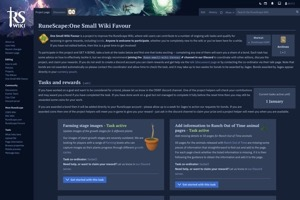
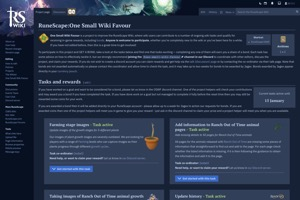
add full size images for milestones

diff --git a/styles/stylesheet.min.css b/styles/stylesheet.min.css
@@ -1,1 +1,1 @@
-:root{--heading-color:#444e5a;--text-color:#5d6773;--text-color-alt:#949eaa;--link-color:#327ba7;--code-color:#edf1f1;--section-color:#f2f4f4;--section-color-alt:#f9fafa;--accent-color:#dae0e4;--accent-color-alt:#a2abb7;--box-shadow-light:0 .7em .7em -.5em rgba(115,116,140,.15);--box-shadow-dark:0 .7em .7em -.5em rgba(115,116,140,.65);--ease-out-quad:cubic-bezier(.25,.46,.45,.94);--ease-in-cubic:cubic-bezier(.77,0,.175,1);--grid-gap:.9em;--border-radius:.35em}:root.is-dark-mode{--heading-color:#e7ebf4;--text-color:#d9e2f4;--text-color-alt:#98a3b8;--link-color:#8cabe6;--code-color:#242f45;--section-color:#071022;--section-color-alt:#121b2e;--accent-color:#313e59;--accent-color-alt:#596e96;--box-shadow-light:0 .7em .8em -.6em rgba(0,0,0,.25);--box-shadow-dark:0 .7em .8em -.6em rgba(0,0,0,.65)}html{-webkit-text-size-adjust:100%}body{font-size:1.3rem;font-family:'IBM Plex Sans','Helvetica Neue','Arial',sans-serif;color:var(--text-color);background-color:var(--section-color-alt);margin:0}@media screen and (max-width:800px){body{font-size:1rem}}h1,h2,h3,h4{font-family:'PT Serif','Palatino','Georgia',serif;font-weight:700;color:var(--heading-color);margin:0}h2{font-size:2em}h3{font-size:1.3em}h2:target::before{content:'';display:block;height:5rem;margin-top:-5rem;visibility:hidden;pointer-events:none}.byline,li,p{line-height:1.6}a{color:var(--link-color);text-decoration:none}a:focus,a:hover{text-decoration:underline}.yir-section{background-color:var(--section-color)}.yir-section:nth-child(even){background-color:var(--section-color-alt)}.yir-container{max-width:52rem;margin:0 auto;padding:8em 7vw}@supports (padding:max(0px)){.yir-container{padding-left:max(7vw,env(safe-area-inset-left));padding-right:max(7vw,env(safe-area-inset-right))}}.yir-container>h3{margin-top:2.5em}.byline{color:var(--text-color-alt);font-size:.85em;margin:0}@media screen and (max-width:800px){.yir-container{padding:6em 5vw}}header.yir-section{background-color:var(--section-color-alt);position:relative;z-index:12}.title{height:100vh;display:flex}.title h1{text-align:center;font-size:initial;margin:auto}@keyframes gamers-rise-up{0%{opacity:0;transform:translateY(20px)}to{opacity:1;transform:translateY(0)}}.title-big{font-size:35vmin;line-height:.75;animation:1s .5s var(--ease-out-quad) both gamers-rise-up}.title-small{color:var(--text-color)}.title-small:first-of-type{font-size:7.25vmin;animation:1s var(--ease-out-quad) both gamers-rise-up}.title-small:last-of-type{font-size:11vmin;animation:1s 1s var(--ease-out-quad) both gamers-rise-up}@media screen and (max-width:800px){.title{max-height:70vmax}}@media screen and (prefers-reduced-motion:reduce){.title-big,.title-small:first-of-type,.title-small:last-of-type{animation:none}}nav{font-size:.7em;position:-webkit-sticky;position:sticky;top:0;z-index:10;box-shadow:0 3px 10px rgba(0,0,0,.03),0 10px 20px rgba(0,0,0,.05),0 30px 60px rgba(0,0,0,.08)}.is-dark-mode nav{box-shadow:0 3px 10px rgba(0,0,0,.06),0 10px 20px rgba(0,0,0,.1),0 30px 60px rgba(0,0,0,.16)}nav ul.yir-container{display:flex;justify-content:space-between;list-style:none;padding-top:.75em;padding-bottom:.75em}nav li a{color:var(--text-color-alt);padding:.4em .75em .5em;transition:.2s ease}nav li:first-of-type a{margin-left:-.75em}nav li a:focus,nav li a:hover{color:var(--text-color);background-color:var(--accent-color);border-radius:var(--border-radius);text-decoration:none}nav li:last-of-type{display:flex}#dark-mode-toggle{background:0 0;margin:auto -.75em auto auto;padding:0 .75em;border:none;cursor:pointer}#dark-mode-toggle .svg-moon{--button-size:1.75em;fill:var(--text-color-alt);width:var(--button-size);height:var(--button-size);transition:fill .3s ease}#dark-mode-toggle:focus .svg-moon,#dark-mode-toggle:hover .svg-moon{fill:var(--text-color)}@media screen and (max-width:550px){nav{position:fixed;top:0;right:0;background:0 0!important}.is-dark-mode nav,nav{box-shadow:none}nav ul.yir-container{padding:.75em}nav li:not(:last-of-type){display:none}#dark-mode-toggle .svg-moon{--button-size:2em}}@media screen and (min-width:551px) and (max-width:800px){nav{font-size:.75em}#dark-mode-toggle .svg-moon{--button-size:1.5em}}.wg-logo{display:flex;margin-bottom:1.5em}.wg-logo a{margin:auto}.wiki-group{display:flex;flex-flow:row wrap;justify-content:space-between;width:90%;margin:2em auto 0}.wiki{background-color:var(--accent-color);width:calc((100% - var(--grid-gap))/2);padding:1.5em 2em;border-radius:var(--border-radius);box-sizing:border-box;box-shadow:var(--box-shadow-dark);transition:transform .2s ease-in-out}html:not(.is-dark-mode) .wiki{filter:brightness(1.4)}.wiki .byline,.wiki h3{color:#fff}.wiki h3{line-height:1.25}.wiki:focus,.wiki:hover{text-decoration:none;transform:translateY(-.15em)}.wiki::after{display:none}.wiki.classic,.wiki.ptbr{background-image:linear-gradient(rgba(0,0,0,.4),rgba(0,0,0,.65)),url(../images/Wiki-PTBR.jpg);background-size:cover}.wiki.classic{background-image:linear-gradient(rgba(0,0,0,.25),rgba(0,0,0,.5)),url(../images/Wiki-Classic.png)}@media screen and (max-width:650px){.wiki{width:100%}.wiki+.wiki{margin-top:var(--grid-gap)}}@media screen and (max-width:calc(52rem + 12vw)){.wiki-group{width:100%}}@media screen and (min-width:650px) and (max-width:calc(52rem + 12vw)){.wiki{padding:1.25em 1.4em}}@media (-webkit-min-device-pixel-ratio:2),(min-resolution:192dpi){.wiki.ptbr{background-image:linear-gradient(rgba(0,0,0,.4),rgba(0,0,0,.65)),url(../images/Wiki-PTBR@2x.jpg)}.wiki.classic{background-image:linear-gradient(rgba(0,0,0,.3),rgba(0,0,0,.55)),url(../images/Wiki-Classic@2x.png)}}.popular-group{display:flex;flex-flow:row wrap;justify-content:space-between;margin-top:2.5em}.popular-title{flex:1 100%;margin-bottom:.75em}.popular-group .tile+.tile{margin-left:var(--grid-gap)}.popular-group .tile ol,.traffic .tile h4{font-size:.9em}.tile{flex:1;background:var(--section-color-alt);box-shadow:var(--box-shadow-light);padding:1.2em 1.5em;border-radius:var(--border-radius)}.tile h4{font-family:'IBM Plex Sans','Helvetica Neue','Arial',sans-serif;font-weight:400;padding-bottom:.35em;border-bottom:1px solid var(--accent-color)}.tile ol{font-size:.8em;margin:.75em 0 0;padding-left:0;counter-reset:item}.tile li{display:flex;counter-increment:item;list-style:none;margin-top:.4em}.tile li::before{content:counter(item);margin-top:.1em;margin-right:.75em;padding:.45em;color:#fff;border-radius:50%;font-size:.75em;font-weight:700;width:1em;height:1em;line-height:1em;text-align:center;-moz-user-select:none;-webkit-user-select:none;-ms-user-select:none;user-select:none}.is-dark-mode .tile li::before,.is-dark-mode .yir-section.technical .thumb{filter:brightness(.8) contrast(1.5) saturate(.8)}.tile.rsw li:nth-of-type(1)::before{background:#266087}.tile.rsw li:nth-of-type(2)::before{background:#327097}.tile.rsw li:nth-of-type(3)::before{background:#4081a7}.tile.rsw li:nth-of-type(4)::before{background:#4f91b6}.is-dark-mode .tile.rsw li:nth-of-type(1)::before,.tile.rsw li:nth-of-type(5)::before{background:#5fa1c4}.is-dark-mode .tile.rsw li:nth-of-type(2)::before{background:#4f91b6}.is-dark-mode .tile.rsw li:nth-of-type(4)::before{background:#327097}.is-dark-mode .tile.rsw li:nth-of-type(5)::before{background:#266087}.tile.osw li:nth-of-type(1)::before{background:#875a26}.tile.osw li:nth-of-type(2)::before{background:#976832}.tile.osw li:nth-of-type(3)::before{background:#a77740}.tile.osw li:nth-of-type(4)::before{background:#b6864f}.is-dark-mode .tile.osw li:nth-of-type(1)::before,.tile.osw li:nth-of-type(5)::before{background:#c4955f}.is-dark-mode .tile.osw li:nth-of-type(2)::before{background:#b6864f}.is-dark-mode .tile.osw li:nth-of-type(4)::before{background:#976832}.is-dark-mode .tile.osw li:nth-of-type(5)::before{background:#875a26}@media screen and (max-width:550px){.popular-group{display:block}.popular-group .tile+.tile{margin-left:0;margin-top:var(--grid-gap)}}.milestone-list{list-style:none;padding:30px 30px 10px 67px;margin-top:1.5em}.milestone-list .thumb{float:right;margin:1.25em 0 0 1em;border-radius:var(--border-radius);box-shadow:var(--box-shadow-dark)}.milestone-list::before{content:"";position:absolute;top:5px;left:36px;width:2px;height:calc(100% - 5px);background:linear-gradient(to bottom,var(--section-color-alt),var(--accent-color) 40px) top no-repeat,linear-gradient(to top,var(--section-color-alt),var(--accent-color) 40px) bottom no-repeat;background-size:100% 50%}.milestone-list h3{line-height:1.2}.milestone-list h3+p{margin-top:.5em}.milestone-list,.milestone-list li{position:relative}.milestone-list li+li{margin-top:2.5em}.milestone-list li::before{position:absolute;top:36px;left:-40px;content:"";width:15px;height:15px;background-color:var(--accent-color-alt);border:2px solid var(--section-color-alt);border-radius:50%}code{font-size:.9em;background:var(--code-color);border:1px solid var(--accent-color);border-radius:.25em;padding:.05em .2em;margin:0 .1em;font-family:'IBM Plex Mono','Menlo','Inconsolata',monospace}@media screen and (max-width:700px){.milestone-list .thumb{float:none;margin-left:0;max-width:70vw}}@media screen and (max-width:800px){.milestone-list{margin-left:-1.25em;padding-right:0}.milestone-list li::before{top:26px}}.stats{display:grid;grid-gap:var(--grid-gap);margin-top:1.25em}.tile dt{color:#6bc71f;font-size:3em;font-weight:700}.tile dd{color:var(--text-color-alt);font-size:.75em;margin-left:0;line-height:1.45}.traffic .tile li:nth-of-type(1)::before{background:#569d18}.traffic .tile li:nth-of-type(2)::before{background:#62b41c}.traffic .tile li:nth-of-type(3)::before{background:#75c72d}.is-dark-mode .traffic .tile li:nth-of-type(1)::before,.traffic .tile li:nth-of-type(4)::before{background:#8ed352}.is-dark-mode .traffic .tile li:nth-of-type(2)::before{background:#75c72d}.is-dark-mode .traffic .tile li:nth-of-type(3)::before{background:#62b41c}.is-dark-mode .traffic .tile li:nth-of-type(4)::before{background:#569d18}.community dt{color:#3ea6e6}@media screen and (max-width:399px){.stats .tile dt{float:left;margin-right:.7rem}.stats .tile dd{margin-top:.8rem}}@media screen and (min-width:400px){.stats{grid-template-columns:repeat(2,1fr)}}@media screen and (min-width:650px){.stats{grid-template-columns:repeat(3,1fr)}}.yir-section.technical .thumb{float:right;margin:1.25em 0 0 1em}@media screen and (max-width:600px){.yir-section.technical .thumb{float:none;margin-left:0;max-width:70vw}}.irl-trip{margin:3.5em 0 0}.irl-gallery{margin-top:1.5em}.irl-gallery a{transition:.2s ease-in-out}.irl-gallery a:focus,.irl-gallery a:hover{transform:translateY(-.15em)}.irl-gallery img{display:block;border-radius:var(--border-radius);box-shadow:var(--box-shadow-dark)}@media screen and (max-width:499px){.irl-gallery{display:flex;flex-wrap:nowrap;overflow-x:scroll;scroll-snap-type:x mandatory;margin:1em -5vw 0;padding:.5em 5vw 1em}.irl-gallery .image-trigger+.image-trigger{margin-left:var(--grid-gap)}.irl-gallery .image-trigger:last-child img{margin-right:5vw}.irl-gallery img{width:80vw;scroll-snap-align:center}}@media screen and (min-width:500px){.irl-gallery{display:grid;grid-gap:var(--grid-gap);grid-template-columns:repeat(2,1fr)}.irl-gallery img{width:100%}}@media screen and (min-width:1024px){.irl-gallery{grid-template-columns:repeat(3,1fr);margin:1.5em -3em 0}}.views-loader{color:#fff;position:absolute;display:flex;justify-content:center;align-items:center;height:90vh;width:100vw}.views-image{padding:3vh 3vw}
+:root{--heading-color:#444e5a;--text-color:#5d6773;--text-color-alt:#949eaa;--link-color:#327ba7;--code-color:#edf1f1;--section-color:#f2f4f4;--section-color-alt:#f9fafa;--accent-color:#dae0e4;--accent-color-alt:#a2abb7;--box-shadow-light:0 .5em .7em -.6em rgba(115,116,140,.15);--box-shadow-dark:0 .5em .7em -.6em rgba(115,116,140,.65);--ease-out-quad:cubic-bezier(.25,.46,.45,.94);--ease-in-cubic:cubic-bezier(.77,0,.175,1);--grid-gap:.9em;--border-radius:.35em}:root.is-dark-mode{--heading-color:#e7ebf4;--text-color:#d9e2f4;--text-color-alt:#98a3b8;--link-color:#8cabe6;--code-color:#242f45;--section-color:#071022;--section-color-alt:#121b2e;--accent-color:#313e59;--accent-color-alt:#596e96;--box-shadow-light:0 .7em .8em -.6em rgba(0,0,0,.25);--box-shadow-dark:0 .7em .8em -.6em rgba(0,0,0,.65)}html{-webkit-text-size-adjust:100%}body{font-size:1.3rem;font-family:'IBM Plex Sans','Helvetica Neue','Arial',sans-serif;color:var(--text-color);background-color:var(--section-color-alt);margin:0}@media screen and (max-width:800px){body{font-size:1rem}}h1,h2,h3,h4{font-family:'PT Serif','Palatino','Georgia',serif;font-weight:700;color:var(--heading-color);margin:0}h2{font-size:2em}h3{font-size:1.3em}h2:target::before{content:'';display:block;height:5rem;margin-top:-5rem;visibility:hidden;pointer-events:none}.byline,li,p{line-height:1.6}a{color:var(--link-color);text-decoration:none}a:focus,a:hover{text-decoration:underline}.yir-section{background-color:var(--section-color)}.yir-section:nth-child(even){background-color:var(--section-color-alt)}.yir-container{max-width:52rem;margin:0 auto;padding:8em 7vw}@supports (padding:max(0px)){.yir-container{padding-left:max(7vw,env(safe-area-inset-left));padding-right:max(7vw,env(safe-area-inset-right))}}.yir-container>h3{margin-top:2.5em}.byline{color:var(--text-color-alt);font-size:.85em;margin:0}@media screen and (max-width:800px){.yir-container{padding:6em 5vw}}header.yir-section{background-color:var(--section-color-alt);position:relative;z-index:12}.title{height:100vh;display:flex}.title h1{text-align:center;font-size:initial;margin:auto}@keyframes gamers-rise-up{0%{opacity:0;transform:translateY(20px)}to{opacity:1;transform:translateY(0)}}.title-big{font-size:35vmin;line-height:.75;animation:1s .5s var(--ease-out-quad) both gamers-rise-up}.title-small{color:var(--text-color)}.title-small:first-of-type{font-size:7.25vmin;animation:1s var(--ease-out-quad) both gamers-rise-up}.title-small:last-of-type{font-size:11vmin;animation:1s 1s var(--ease-out-quad) both gamers-rise-up}@media screen and (max-width:800px){.title{max-height:70vmax}}@media screen and (prefers-reduced-motion:reduce){.title-big,.title-small:first-of-type,.title-small:last-of-type{animation:none}}nav{font-size:.7em;position:-webkit-sticky;position:sticky;top:0;z-index:10;box-shadow:0 3px 10px rgba(0,0,0,.03),0 10px 20px rgba(0,0,0,.05),0 30px 60px rgba(0,0,0,.08)}.is-dark-mode nav{box-shadow:0 3px 10px rgba(0,0,0,.06),0 10px 20px rgba(0,0,0,.1),0 30px 60px rgba(0,0,0,.16)}nav ul.yir-container{display:flex;justify-content:space-between;list-style:none;padding-top:.75em;padding-bottom:.75em}nav li a{color:var(--text-color-alt);padding:.4em .75em .5em;transition:.2s ease}nav li:first-of-type a{margin-left:-.75em}nav li a:focus,nav li a:hover{color:var(--text-color);background-color:var(--accent-color);border-radius:var(--border-radius);text-decoration:none}nav li:last-of-type{display:flex}#dark-mode-toggle{background:0 0;margin:auto -.75em auto auto;padding:0 .75em;border:none;cursor:pointer}#dark-mode-toggle .svg-moon{--button-size:1.75em;fill:var(--text-color-alt);width:var(--button-size);height:var(--button-size);transition:fill .3s ease}#dark-mode-toggle:focus .svg-moon,#dark-mode-toggle:hover .svg-moon{fill:var(--text-color)}@media screen and (max-width:550px){nav{position:fixed;top:0;right:0;background:0 0!important}.is-dark-mode nav,nav{box-shadow:none}nav ul.yir-container{padding:.75em}nav li:not(:last-of-type){display:none}#dark-mode-toggle .svg-moon{--button-size:2em}}@media screen and (min-width:551px) and (max-width:800px){nav{font-size:.75em}#dark-mode-toggle .svg-moon{--button-size:1.5em}}.wg-logo{display:flex;margin-bottom:1.5em}.wg-logo a{margin:auto}.wiki-group{display:flex;flex-flow:row wrap;justify-content:space-between;width:90%;margin:2em auto 0}.wiki{background-color:var(--accent-color);width:calc((100% - var(--grid-gap))/2);padding:1.5em 2em;border-radius:var(--border-radius);box-sizing:border-box;box-shadow:var(--box-shadow-dark);transition:transform .2s ease-in-out}html:not(.is-dark-mode) .wiki{filter:brightness(1.4)}.wiki .byline,.wiki h3{color:#fff}.wiki h3{line-height:1.25}.wiki:focus,.wiki:hover{text-decoration:none;transform:translateY(-.15em)}.wiki::after{display:none}.wiki.classic,.wiki.ptbr{background-image:linear-gradient(rgba(0,0,0,.4),rgba(0,0,0,.65)),url(../images/Wiki-PTBR.jpg);background-size:cover}.wiki.classic{background-image:linear-gradient(rgba(0,0,0,.25),rgba(0,0,0,.5)),url(../images/Wiki-Classic.png)}@media screen and (max-width:650px){.wiki{width:100%}.wiki+.wiki{margin-top:var(--grid-gap)}}@media screen and (max-width:calc(52rem + 12vw)){.wiki-group{width:100%}}@media screen and (min-width:650px) and (max-width:calc(52rem + 12vw)){.wiki{padding:1.25em 1.4em}}@media (-webkit-min-device-pixel-ratio:2),(min-resolution:192dpi){.wiki.ptbr{background-image:linear-gradient(rgba(0,0,0,.4),rgba(0,0,0,.65)),url(../images/Wiki-PTBR@2x.jpg)}.wiki.classic{background-image:linear-gradient(rgba(0,0,0,.3),rgba(0,0,0,.55)),url(../images/Wiki-Classic@2x.png)}}.popular-group{display:flex;flex-flow:row wrap;justify-content:space-between;margin-top:2.5em}.popular-title{flex:1 100%;margin-bottom:.75em}.popular-group .tile+.tile{margin-left:var(--grid-gap)}.popular-group .tile ol,.traffic .tile h4{font-size:.9em}.tile{flex:1;background:var(--section-color-alt);box-shadow:var(--box-shadow-light);padding:1.2em 1.5em;border-radius:var(--border-radius)}.tile h4{font-family:'IBM Plex Sans','Helvetica Neue','Arial',sans-serif;font-weight:400;padding-bottom:.35em;border-bottom:1px solid var(--accent-color)}.tile ol{font-size:.8em;margin:.75em 0 0;padding-left:0;counter-reset:item}.tile li{display:flex;counter-increment:item;list-style:none;margin-top:.4em}.tile li::before{content:counter(item);margin-top:.1em;margin-right:.75em;padding:.45em;color:#fff;border-radius:50%;font-size:.75em;font-weight:700;width:1em;height:1em;line-height:1em;text-align:center;-moz-user-select:none;-webkit-user-select:none;-ms-user-select:none;user-select:none}.is-dark-mode .tile li::before,.is-dark-mode .yir-section.technical .thumb{filter:brightness(.8) contrast(1.5) saturate(.8)}.tile.rsw li:nth-of-type(1)::before{background:#266087}.tile.rsw li:nth-of-type(2)::before{background:#327097}.tile.rsw li:nth-of-type(3)::before{background:#4081a7}.tile.rsw li:nth-of-type(4)::before{background:#4f91b6}.is-dark-mode .tile.rsw li:nth-of-type(1)::before,.tile.rsw li:nth-of-type(5)::before{background:#5fa1c4}.is-dark-mode .tile.rsw li:nth-of-type(2)::before{background:#4f91b6}.is-dark-mode .tile.rsw li:nth-of-type(4)::before{background:#327097}.is-dark-mode .tile.rsw li:nth-of-type(5)::before{background:#266087}.tile.osw li:nth-of-type(1)::before{background:#875a26}.tile.osw li:nth-of-type(2)::before{background:#976832}.tile.osw li:nth-of-type(3)::before{background:#a77740}.tile.osw li:nth-of-type(4)::before{background:#b6864f}.is-dark-mode .tile.osw li:nth-of-type(1)::before,.tile.osw li:nth-of-type(5)::before{background:#c4955f}.is-dark-mode .tile.osw li:nth-of-type(2)::before{background:#b6864f}.is-dark-mode .tile.osw li:nth-of-type(4)::before{background:#976832}.is-dark-mode .tile.osw li:nth-of-type(5)::before{background:#875a26}@media screen and (max-width:550px){.popular-group{display:block}.popular-group .tile+.tile{margin-left:0;margin-top:var(--grid-gap)}}.milestone-list{position:relative;list-style:none;padding:30px 30px 10px 67px;margin-top:1.5em}.milestone-list .thumb{float:right;margin:1.25em 0 0 1em;transition:.2s ease-in-out;border-radius:var(--border-radius);box-shadow:var(--box-shadow-dark)}.irl-gallery a:focus,.irl-gallery a:hover,.milestone-list .thumb:focus,.milestone-list .thumb:hover{transform:translateY(-.15em)}.milestone-list::before{content:"";position:absolute;top:5px;left:36px;width:2px;height:calc(100% - 5px);background:linear-gradient(to bottom,var(--section-color-alt),var(--accent-color) 40px) top no-repeat,linear-gradient(to top,var(--section-color-alt),var(--accent-color) 40px) bottom no-repeat;background-size:100% 50%}.milestone-list h3{line-height:1.2}.milestone-list h3+p{margin-top:.5em}.milestone-list li{position:relative}.milestone-list li+li{margin-top:2.5em}.milestone-list li::before{position:absolute;top:36px;left:-40px;content:"";width:15px;height:15px;background-color:var(--accent-color-alt);border:2px solid var(--section-color-alt);border-radius:50%}code{font-size:.9em;background:var(--code-color);border:1px solid var(--accent-color);border-radius:.25em;padding:.05em .2em;margin:0 .1em;font-family:'IBM Plex Mono','Menlo','Inconsolata',monospace}@media screen and (max-width:700px){.milestone-list .thumb{float:none;margin-left:0;max-width:70vw}}@media screen and (max-width:800px){.milestone-list{margin-left:-1.25em;padding-right:0}.milestone-list li::before{top:26px}}.stats{display:grid;grid-gap:var(--grid-gap);margin-top:1.25em}.tile dt{color:#6bc71f;font-size:3em;font-weight:700}.tile dd{color:var(--text-color-alt);font-size:.75em;margin-left:0;line-height:1.45}.traffic .tile li:nth-of-type(1)::before{background:#569d18}.traffic .tile li:nth-of-type(2)::before{background:#62b41c}.traffic .tile li:nth-of-type(3)::before{background:#75c72d}.is-dark-mode .traffic .tile li:nth-of-type(1)::before,.traffic .tile li:nth-of-type(4)::before{background:#8ed352}.is-dark-mode .traffic .tile li:nth-of-type(2)::before{background:#75c72d}.is-dark-mode .traffic .tile li:nth-of-type(3)::before{background:#62b41c}.is-dark-mode .traffic .tile li:nth-of-type(4)::before{background:#569d18}.community dt{color:#3ea6e6}@media screen and (max-width:399px){.stats .tile dt{float:left;margin-right:.7rem}.stats .tile dd{margin-top:.8rem}}@media screen and (min-width:400px){.stats{grid-template-columns:repeat(2,1fr)}}@media screen and (min-width:650px){.stats{grid-template-columns:repeat(3,1fr)}}.yir-section.technical .thumb{float:right;margin:1.25em 0 0 1em}@media screen and (max-width:600px){.yir-section.technical .thumb{float:none;margin-left:0;max-width:70vw}}.irl-trip{margin:3.5em 0 0}.irl-gallery{margin-top:1.5em}.irl-gallery a{transition:.2s ease-in-out}.irl-gallery img{display:block;border-radius:var(--border-radius);box-shadow:var(--box-shadow-dark)}@media screen and (max-width:499px){.irl-gallery{display:flex;flex-wrap:nowrap;overflow-x:scroll;scroll-snap-type:x mandatory;margin:1em -5vw 0;padding:.5em 5vw 1em}.irl-gallery .image-trigger+.image-trigger{margin-left:var(--grid-gap)}.irl-gallery .image-trigger:last-child img{margin-right:5vw}.irl-gallery img{width:80vw;scroll-snap-align:center}}@media screen and (min-width:500px){.irl-gallery{display:grid;grid-gap:var(--grid-gap);grid-template-columns:repeat(2,1fr)}.irl-gallery img{width:100%}}@media screen and (min-width:1024px){.irl-gallery{grid-template-columns:repeat(3,1fr);margin:1.5em -3em 0}}.views-loader{color:#fff;position:absolute;display:flex;justify-content:center;align-items:center;height:90vh;width:100vw}.views-image{padding:3vh 3vw}

diff --git a/index.html b/index.html
@@ -161,7 +161,9 @@
                 <li>
                     <div class="byline">5 January 2019</div>
                     <h3>Update coverage</h3>
-                    <img class="thumb" src="images/Placeholder.png" data-src="images/thumbs/Milestones-1.jpg" data-srcset="images/thumbs/Milestones-1@2x.jpg 2x" alt="Concept art of the Kebos Lowlands">
+                    <a class="image-trigger" href="images/full/Milestones-1@2x.jpg">
+                        <img class="thumb" src="images/Placeholder.png" data-src="images/thumbs/Milestones-1.jpg" data-srcset="images/thumbs/Milestones-1@2x.jpg 2x" alt="Concept art of the Kebos Lowlands">
+                    </a>
                     <p>The wikis started off the year strong with coverage of two big updates. <i>RuneScape</i> featured a complete <a target="_blank" rel="noopener" href="https://runescape.wiki/w/Mining_and_Smithing_rework">Mining and Smithing rework</a>, and <i>Old School RuneScape</i> developed the new <a target="_blank" rel="noopener" href="https://oldschool.runescape.wiki/w/Kebos_Lowlands">Kebos Lowlands</a> region. Just hours after release, editors had already prepared articles, taken images, and written guides.</p>
                 </li>
                 <li>
@@ -177,7 +179,9 @@
                 <li>
                     <div class="byline">17 March 2019</div>
                     <h3>One Small Wiki Favour</h3>
-                    <img class="thumb" src="images/Placeholder.png" data-src="images/thumbs/Milestones-2.jpg" data-srcset="images/thumbs/Milestones-2@2x.jpg 2x" alt="The One Small Wiki Favour project page">
+                    <a class="image-trigger" href="images/full/Milestones-2@2x.jpg">
+                        <img class="thumb" src="images/Placeholder.png" data-src="images/thumbs/Milestones-2.jpg" data-srcset="images/thumbs/Milestones-2@2x.jpg 2x" alt="The One Small Wiki Favour project page">
+                    </a>
                     <p>Across both wikis we launched <a target="_blank" rel="noopener" href="https://runescape.wiki/w/RuneScape:One_Small_Wiki_Favour">One Small Wiki Favour</a>, a programme to reward new editors with bonds in-game for their contributions to the wiki. This has gotten over a hundred new editors involved and helped complete numerous wiki projects.</p>
                 </li>
                 <li>
@@ -198,7 +202,9 @@
                 <li>
                     <div class="byline">5 October 2019</div>
                     <h3>RuneFest wiki panel</h3>
-                    <img class="thumb" src="images/Placeholder.png" data-src="images/thumbs/Milestones-3.jpg" data-srcset="images/thumbs/Milestones-3@2x.jpg 2x" alt="The Another Slice of W.I.K.I. panel">
+                    <a class="image-trigger" href="images/full/Milestones-3@2x.jpg">
+                        <img class="thumb" src="images/Placeholder.png" data-src="images/thumbs/Milestones-3.jpg" data-srcset="images/thumbs/Milestones-3@2x.jpg 2x" alt="The Another Slice of W.I.K.I. panel">
+                    </a>
                     <p>In a RuneFest first, our editors hosted a panel to discuss all things wiki. It was a huge opportunity to talk with Jagex Moderators, who provided invaluable collaboration on a number of wiki projects. Check out <a target="_blank" rel="noopener" href="https://youtu.be/YwwRTv-nlH4">a recording of the livestream!</a></p>
                 </li>
                 <li>

diff --git a/styles/stylesheet.css b/styles/stylesheet.css
@@ -14,8 +14,8 @@
     --accent-color: #dae0e4;
     --accent-color-alt: #a2abb7;
 
-    --box-shadow-light: 0 .7em .7em -.5em rgba(115, 116, 140, .15);
-    --box-shadow-dark: 0 .7em .7em -.5em rgba(115, 116, 140, .65);
+    --box-shadow-light: 0 .5em .7em -.6em rgba(115, 116, 140, .15);
+    --box-shadow-dark: 0 .5em .7em -.6em rgba(115, 116, 140, .65);
 
     --ease-out-quad: cubic-bezier(0.25, 0.46, 0.45, 0.94);
     --ease-in-cubic: cubic-bezier(0.77, 0, 0.175, 1);
@@ -635,11 +635,18 @@ html:not(.is-dark-mode) .wiki {
     margin-top: 1.5em;
 }
 
+/* images */
 .milestone-list .thumb {
     float: right;
     margin: 1.25em 0 0 1em;
+    transition: .2s ease-in-out;
     border-radius: var(--border-radius);
     box-shadow: var(--box-shadow-dark);
+}
+
+.milestone-list .thumb:hover,
+.milestone-list .thumb:focus {
+    transform: translateY(-0.15em);
 }
 
 /* the vertical line */
